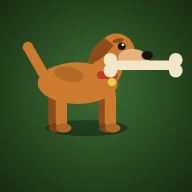
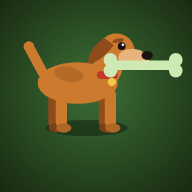
Give bones a green tint
Iron Bone, the dropped-XP bone (and its glow), the HUD bone icon, the bone on Fred's
crate, the title-screen bone and the app icons are now pale green instead of white.

Claude-Session: https://claude.ai/code/session_01MMRVAzvH84vLAsVYkeTCdc

diff --git a/game/index.html b/game/index.html
@@ -155,7 +155,7 @@ const distC = (x, y) => Math.hypot(x - CENTER, y - CENTER);
 const WEAPONS = [
   { name: 'Puppy Teeth',   dmg: 10, cost: 0,    color: '#ffffff', verb: 'BITE', type: 'bite',      desc: 'Just your own chompers' },
   { name: 'Fetch Stick',   dmg: 18, cost: 40,   color: '#8a5a2e', verb: 'WHACK', type: 'stick',     desc: 'A really good stick' },
-  { name: 'Iron Bone',     dmg: 28, cost: 150,  color: '#c8ccd4', verb: 'BONK', type: 'bone',      desc: 'Heavy, shiny, and great for bonking' },
+  { name: 'Iron Bone',     dmg: 28, cost: 150,  color: '#a9cc9c', verb: 'BONK', type: 'bone',      desc: 'Heavy, shiny, and great for bonking' },
   { name: 'Razor Frisbee', dmg: 44, cost: 450,  color: '#2ec4b6', verb: 'SLASH', type: 'frisbee',   desc: 'A frisbee with a serrated edge' },
   { name: 'Inferno Bone',  dmg: 68, cost: 1200, color: '#ff7a3a', verb: 'SCORCH', type: 'flamebone', desc: 'A legendary bone that never stops burning' },
   { name: 'Moon Bone',     dmg: 95, cost: 0,    color: '#cfe8ff', verb: 'SMITE', type: 'moonbone',  desc: 'A glowing bone from Fred\'s secret stash', rare: true },
@@ -1195,7 +1195,7 @@ function drawFred() {
   ctx.fillStyle = '#7a5028'; for (const y of [-10, -5]) ctx.fillRect(-11, y, 18, 1.2);
   ctx.fillStyle = '#b07a45'; ctx.fillRect(-11, -15.5, 18, 2.2);
   ctx.save(); ctx.translate(-6, -15); ctx.rotate(-0.5); ctx.fillStyle = '#8a5a2e'; ctx.fillRect(0, -1, 13, 2.2); ctx.restore();   // a stick
-  ctx.save(); ctx.translate(1, -17); ctx.rotate(0.35); paintMode = null; drawBone(-3, 4, '#f2e6c8'); ctx.restore();                 // a bone
+  ctx.save(); ctx.translate(1, -17); ctx.rotate(0.35); paintMode = null; drawBone(-3, 4, '#cfe9b4'); ctx.restore();                 // a bone
   ctx.fillStyle = '#2ec4b6'; ctx.beginPath(); ctx.ellipse(-8, -16, 4, 1.4, 0, 0, Math.PI * 2); ctx.fill();                      // a frisbee
   ctx.fillStyle = '#f2e6c8'; ctx.font = 'bold 5px system-ui, sans-serif'; ctx.textAlign = 'center'; ctx.fillText("FRED'S", -2, -6.5);
   ctx.restore();
@@ -1463,12 +1463,12 @@ function drawDoghouse() {
 
 function drawBloodstain() {
   const b = bloodstain, pulse = 0.6 + Math.sin(time * 4) * 0.25;
-  ctx.fillStyle = `rgba(242,201,76,${pulse * 0.4})`;
+  ctx.fillStyle = `rgba(127,212,106,${pulse * 0.4})`;
   groundEllipse(b.x, b.y, 0.5); ctx.fill();
   const s = toScreen(b.x, b.y);
   ctx.save(); ctx.translate(s.x, s.y - 10 - Math.sin(time * 3) * 2); ctx.rotate(-0.4);
-  ctx.globalAlpha = 0.6 + pulse * 0.4; ctx.shadowColor = '#f2c94c'; ctx.shadowBlur = 12;
-  drawBone(-6, 6, '#fff3c4');
+  ctx.globalAlpha = 0.6 + pulse * 0.4; ctx.shadowColor = '#7fd46a'; ctx.shadowBlur = 12;
+  drawBone(-6, 6, '#cfe9b4');
   ctx.restore(); ctx.globalAlpha = 1; ctx.shadowBlur = 0;
 }
 
@@ -1523,7 +1523,7 @@ function drawHUDInner() {
   });
   // Dropped XP still out there: a little bone and the amount
   if (bloodstain) {
-    ctx.save(); ctx.translate(90, 84); ctx.rotate(-0.3); paintMode = null; drawBone(-4, 4, '#fff3c4'); ctx.restore();
+    ctx.save(); ctx.translate(90, 84); ctx.rotate(-0.3); paintMode = null; drawBone(-4, 4, '#cfe9b4'); ctx.restore();
     ctx.font = '12px system-ui, sans-serif'; ctx.fillStyle = '#ffb4a0'; ctx.fillText(`${bloodstain.xp}`, 102, 88);
   }
 
@@ -1714,7 +1714,7 @@ function drawLogoDog() {
   ctx.setTransform(6, 0, 0, 6, 0, 0);
   ctx.fillStyle = 'rgba(0,0,0,.35)';
   ctx.beginPath(); ctx.ellipse(60, 68, 22, 4, 0, 0, Math.PI * 2); ctx.fill();
-  drawDog(58, 68, { flip: false, walk: time * 7, moving: true, running: false, attack: -1, item: 'bone', color: '#f2e6c8', eating: false });
+  drawDog(58, 68, { flip: false, walk: time * 7, moving: true, running: false, attack: -1, item: 'bone', color: '#cfe9b4', eating: false });
   ctx = main;
 }
 
